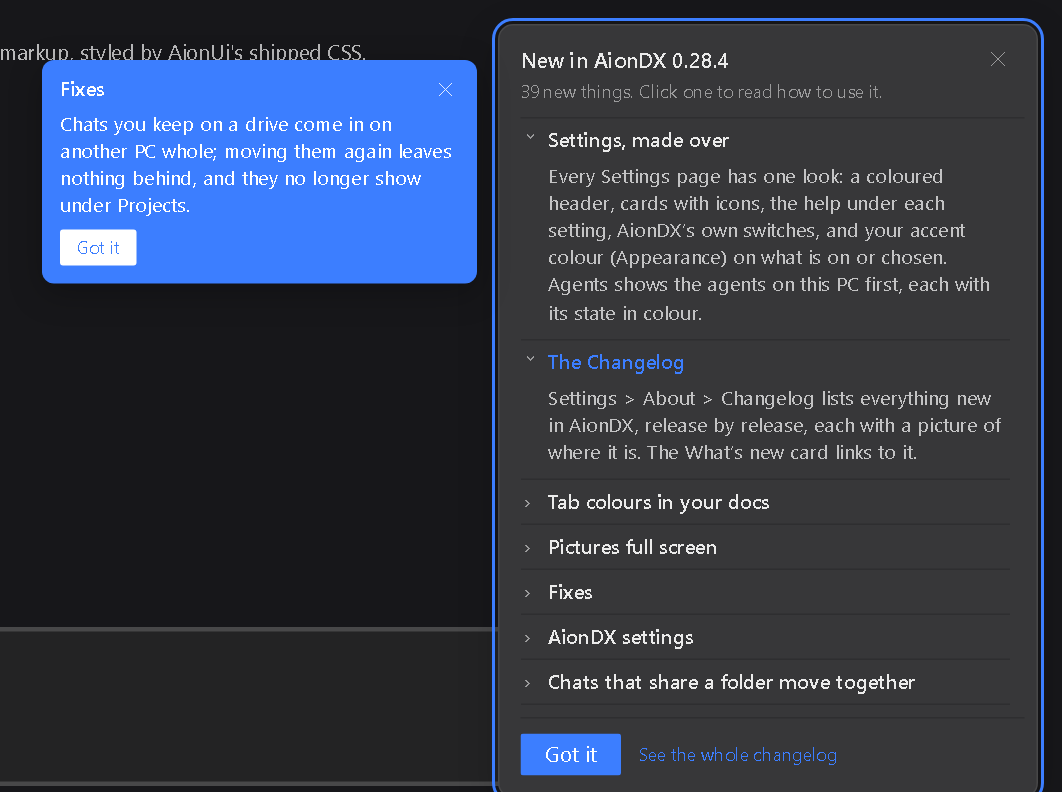
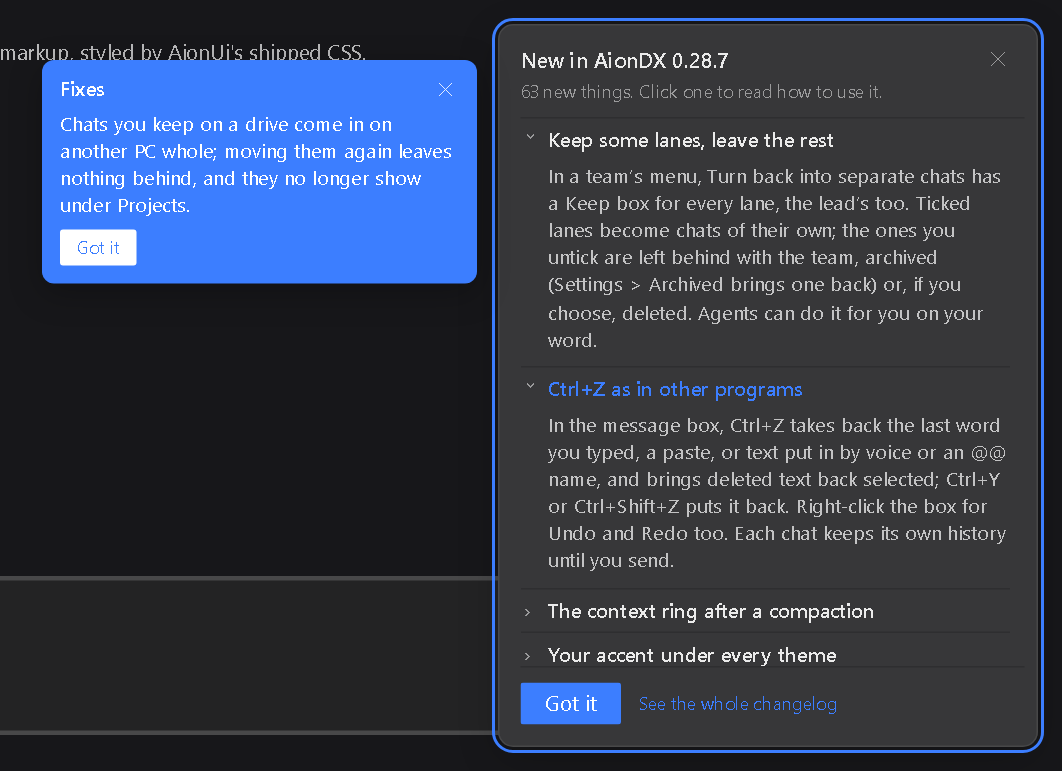
Changelog pictures for every 0.28.7 item, and the six 0.28.6 items that shipped without them

diff --git a/tools/dx-harness/click-test.js b/tools/dx-harness/click-test.js
@@ -5954,7 +5954,7 @@ async function pageTarget() {
         rg && Math.abs(1 - Number(rg.off) / Number(rg.dash) - 0.115) < 0.01 && /^Compacted at \d\d:\d\d: about 23K now \(11\.5% of 200K\), down from 84K\. An estimate until the next reply measures it\./.test(rg.title), JSON.stringify(rg));
       // November 26th, 2026: the compaction is said once where the chat is on screen, from the launcher's numbers (no agent turn)
       let ctxT = (await toasts()).filter((x) => /compacted: about/.test(x));
-      await clogShot('0.28.7', 'The context ring after a compaction', '.aiondx-toasts .aiondx-toast');
+      await clogShot('0.28.7', 'The context ring after a compaction', '#solo [data-testid="aiondx-ctx"]', { text: 'The ring shows the size after a compaction at once.' });
       check(sc, 'a compaction that just finished is said once: the size now and the size before', ctxT.length === 1 && /^this chat compacted: about 23K tokens now, down from 84K\./.test(ctxT[0]), JSON.stringify(ctxT));
       await js('window.__aionDx.pullNow()');
       await sleep(300);
@@ -7056,6 +7056,7 @@ async function pageTarget() {
       await shot('click-test-dissolve-dark');
       await js(`(() => { document.documentElement.setAttribute('data-theme', 'light'); document.body.setAttribute('arco-theme', 'light'); return 0; })()`);
       await clogShot('0.28.7', 'Keep some lanes, leave the rest', '[data-testid="aiondx-dissolve-dlg"]');
+      await clogShot('0.28.6', 'A chat becomes a team, and back', '[data-testid="aiondx-dissolve-dlg"]', { text: 'Turn back into separate chats, in a team’s menu.' });
       await humanClick('[data-testid="aiondx-dissolve-dlg"] .aiondx-dissolve-rows label:nth-child(1) input');
       dl = await dlg();
       check(sc, 'with no lane kept the button is off and says why', dl.goOff && /^Keep at least one lane\./.test(dl.err) && dl.leftH === 'The 2 lanes left behind:', JSON.stringify(dl));
